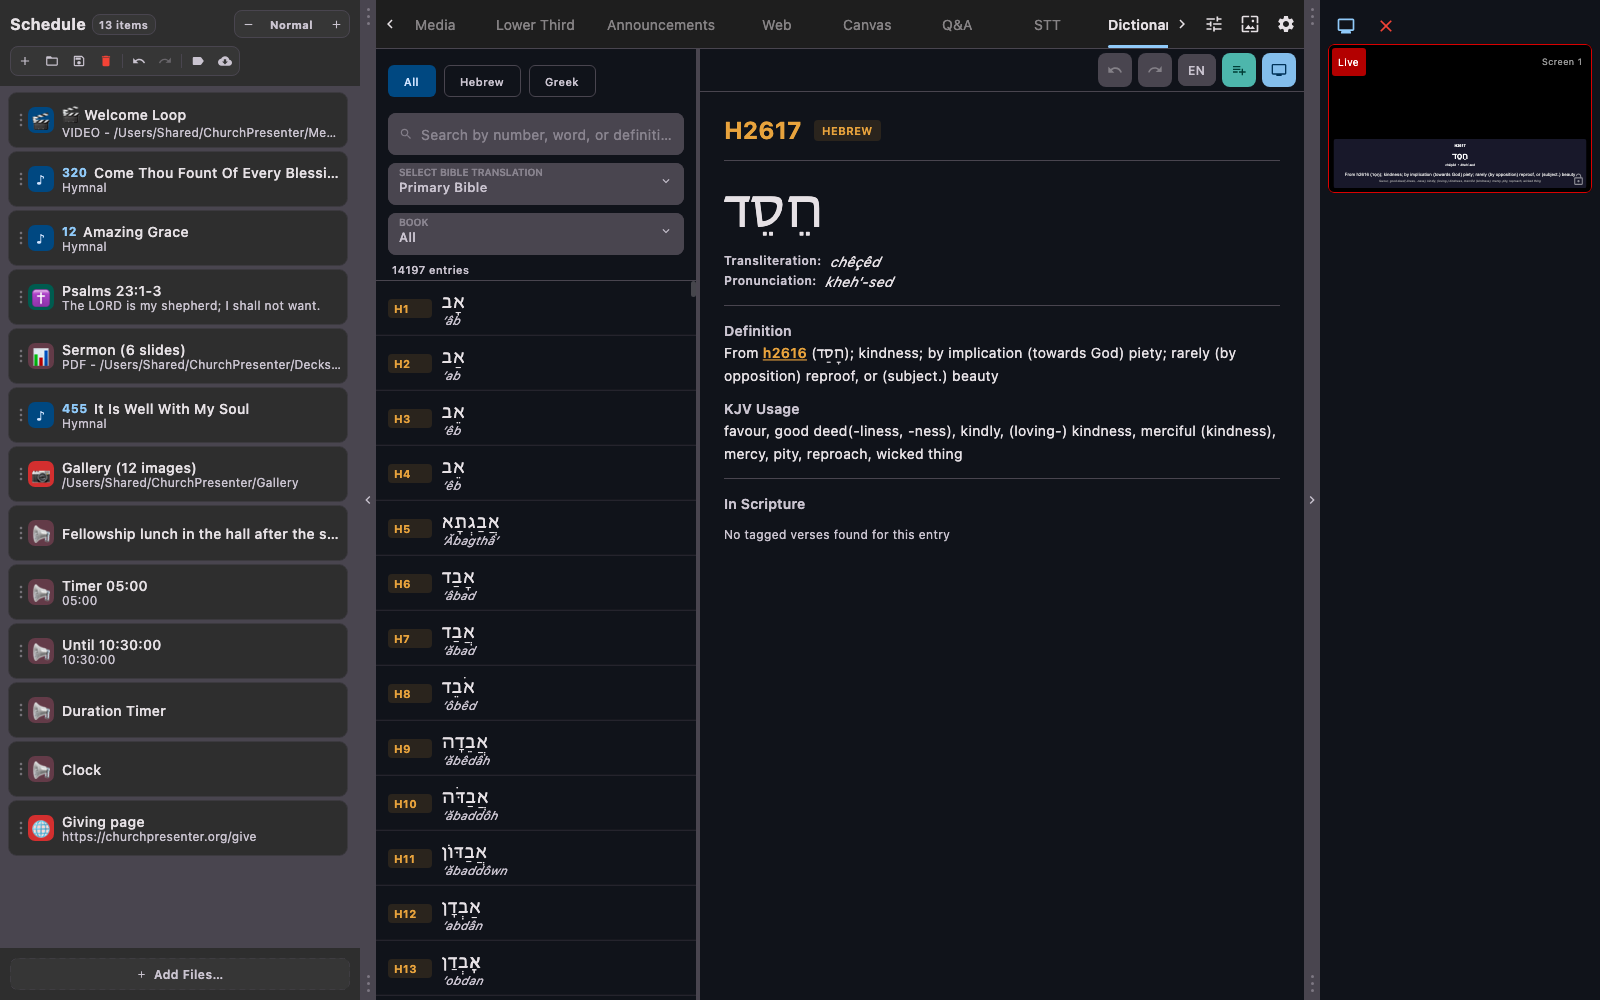
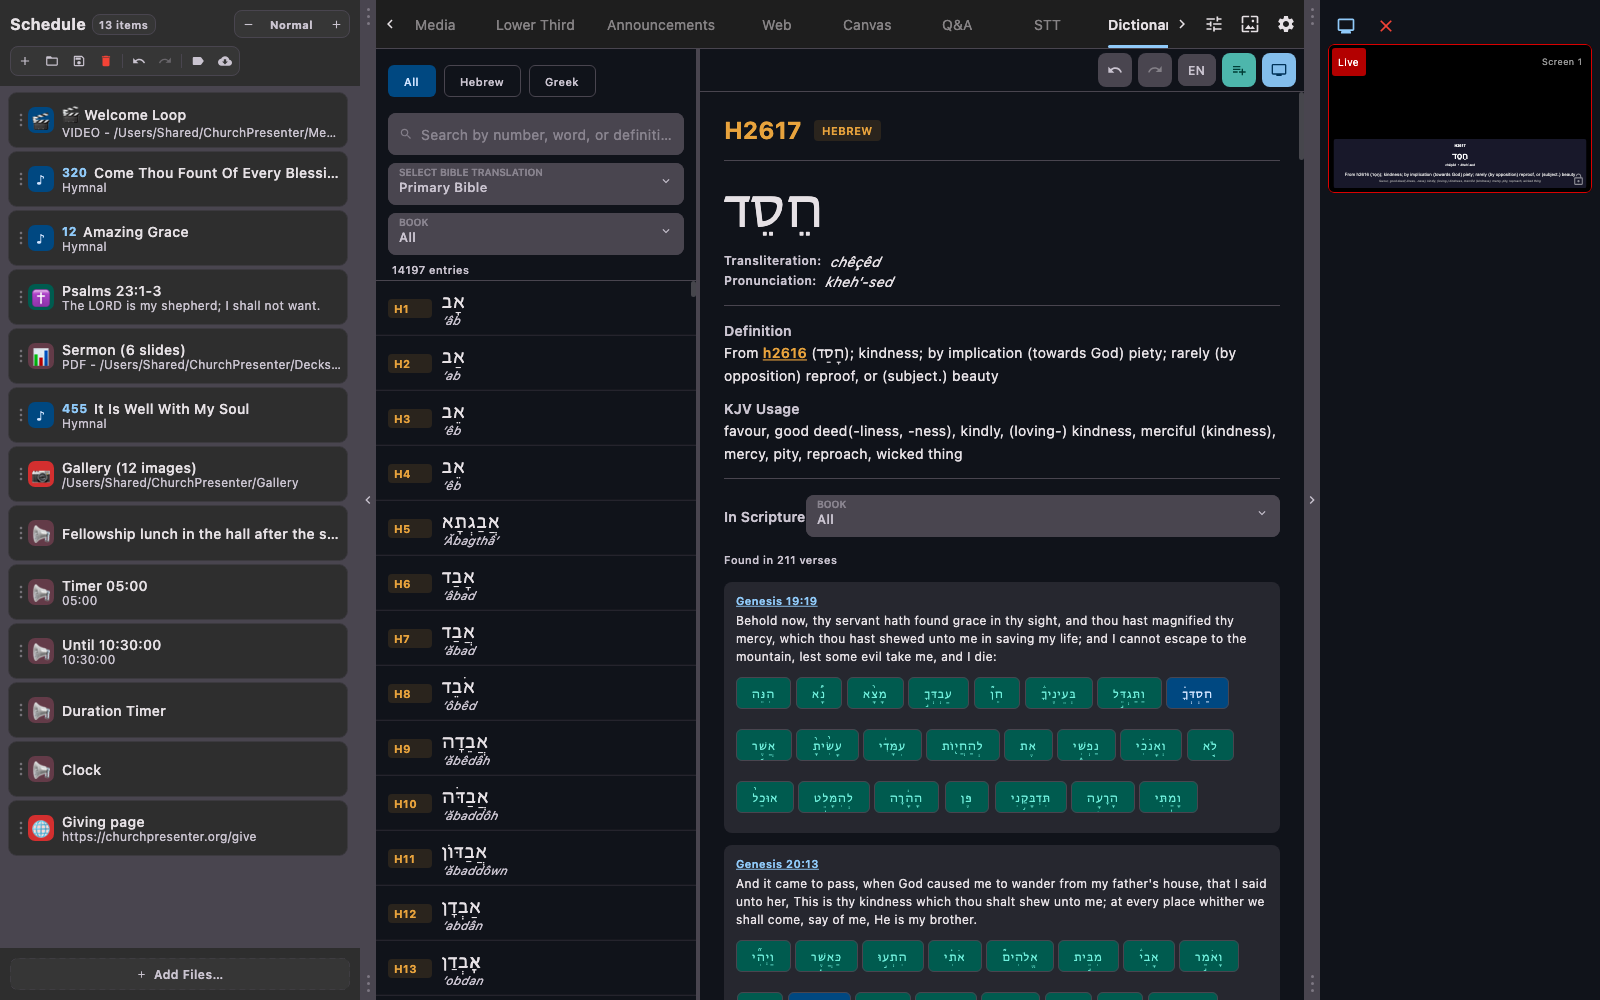
Stabilize preview screenshots and tighten threshold
Make preview screenshots deterministic for CI and tighten the image-change gate.

- Parameterize AboutDialogContent with a versionDisplay argument (defaults to BuildConfig.VERSION_DISPLAY) so tests can pin the version; AppPreviewAboutScreenshotTest now passes a fixed version.
- Pin CompanionSatelliteSettings deviceId in the preview AppSettings fixture to avoid UUID churn.
- Fix dictionary preview flakiness by adding selectUntilFullyScanned() to re-select the entry until the full interlinear count appears (imports for semantics/testing added).
- Reduce CHANGE_THRESHOLD from 0.5% to 0.1% (0.005f → 0.001f) and update commentary.
- Re-recorded affected preview screenshots.

Changed region(s): [[0.4375, 0.496, 0.8125, 1.0]]

diff --git a/composeApp/src/jvmTest/kotlin/org/churchpresenter/app/churchpresenter/screenshot/ScreenshotSupport.kt b/composeApp/src/jvmTest/kotlin/org/churchpresenter/app/churchpresenter/screenshot/ScreenshotSupport.kt
@@ -84,7 +84,7 @@ internal const val RENDER_TIMEOUT_MS = 30_000L
 private val PARTS = File("$SCREENSHOT_ROOT/.parts")
 
 /**
- * How much of an image may differ before `verifyRoborazziJvm` fails: **0.5%** of its pixels.
+ * How much of an image may differ before `verifyRoborazziJvm` fails: **0.1%** of its pixels.
  *
  * Roborazzi's own default is **0** — one differing pixel fails. That is the right target and not yet
  * reachable here (see below), so this is deliberately a little above it rather than the order of
@@ -105,17 +105,23 @@ private val PARTS = File("$SCREENSHOT_ROOT/.parts")
  * At 2.5% the first three of those merge cleanly — a switch could be inverted, a status could go the
  * wrong color, and the gate would stay green.
  *
- * **What sets the floor is churn, not the threshold.** Re-recording the *unchanged* set on the same
- * machine moves 9 of ~330 images, by 0.07% to 4.2% each. Those overlap the real changes above, so no
- * number separates signal from noise while they exist — the churn has to be fixed instead. Known:
- * `bibleSettingsTab`/`songSettingsTab` `colour_picker` (0.87% each) draw the picker's "Recent" row,
- * which is a JVM-wide singleton loaded from `~/.churchpresenter/recent_colors.json` — the suites that
- * pin and restore it (`stageMonitorSettingsTab`, `dictionarySettingsTab`) do not churn. Unexplained:
- * `previewApp` `about_*` (0.55%), `settings_companion_satellite_*` (0.16%), `canvas_*` (0.07%) and
- * `dictionary_light` (4.2%).
+ * **What sets the floor is churn, not the threshold**, so the churn was fixed rather than the number
+ * widened. Nine images used to move on every re-record; each had a cause, and none of them was Skia:
  *
- * So: **0.5% catches everything from a status line upwards and is 25× tighter than a "typical"
- * screenshot gate; drop it toward 0 as each churning image is fixed.**
+ * - `colour_picker` (0.87%) — the picker's "Recent" row, JVM-wide state; see [PinnedRecentColors].
+ * - `previewApp/about_*` (0.55%) — `BuildConfig.VERSION_DISPLAY` carries the git hash, so it changed
+ *   on every commit. The dialog now takes the version as a parameter and the test pins it.
+ * - `previewApp/settings_companion_satellite_*` (0.16%) — `CompanionSatelliteSettings` generates its
+ *   device id with `UUID.randomUUID()` and the tab draws it. Pinned in the preview fixture.
+ * - `previewApp/dictionary_light` (4.2%) — the interlinear index loads in the background and is
+ *   queried once, when an entry is selected, so a selection made mid-load kept a partial count. The
+ *   test now re-selects until the count is complete.
+ * - `previewApp/canvas_*` (0.07%) — not churn at all: a stale image, never re-recorded after the
+ *   canvas source list moved from emoji to real icons.
+ *
+ * With those gone the set is byte-stable across consecutive recordings, so **0.1% is slack for
+ * anti-aliasing and nothing else — it sits under every real change measured above.** 0 is the
+ * target; keep this only as long as something still jitters.
  *
  * The threshold is a *fraction of the whole image*, so it scales with the picture: on a stacked
  * 1024×1538 tab shot it is ~7,900 pixels, on a trimmed component shot a few hundred.
@@ -124,7 +130,7 @@ private val PARTS = File("$SCREENSHOT_ROOT/.parts")
  * `SimpleImageComparator` counts a pixel as differing only past a color distance of 0.007, which is
  * about four levels of one 8-bit channel.
  */
-internal const val CHANGE_THRESHOLD = 0.005f
+internal const val CHANGE_THRESHOLD = 0.001f
 
 /**
  * What the record/compare/verify tasks apply to a **golden** — the stacked image that is committed.

diff --git a/composeApp/src/jvmTest/kotlin/org/churchpresenter/app/churchpresenter/screenshot/AppPreviewDictionaryScreenshotTest.kt b/composeApp/src/jvmTest/kotlin/org/churchpresenter/app/churchpresenter/screenshot/AppPreviewDictionaryScreenshotTest.kt
@@ -2,8 +2,12 @@
 
 package org.churchpresenter.app.churchpresenter.screenshot
 
+import androidx.compose.ui.semantics.SemanticsProperties
+import androidx.compose.ui.semantics.getOrNull
+import androidx.compose.ui.test.ComposeUiTest
 import androidx.compose.ui.test.hasSetTextAction
 import androidx.compose.ui.test.hasText
+import androidx.compose.ui.test.onAllNodesWithText
 import androidx.compose.ui.test.performClick
 import androidx.compose.ui.test.performTextReplacement
 import org.churchpresenter.app.churchpresenter.tabs.Tabs
@@ -16,11 +20,44 @@ class AppPreviewDictionaryScreenshotTest {
         onAllNodes(hasSetTextAction())[0].performTextReplacement("H2617")
         waitForIdle()
         // the search field also reads "H2617", so the row is addressed by its transliteration
-        onAllNodes(hasText("chêçêd", substring = true))[0].performClick()
-        waitForIdle()
+        selectUntilFullyScanned()
         // Clearing the search puts all 14,197 entries back in the list; the selection survives it.
         onAllNodes(hasSetTextAction())[0].performTextReplacement("")
         waitForIdle()
         goLive()
+    }
+
+    /**
+     * Selects the entry, and keeps re-selecting it until In Scripture reports the whole of it.
+     *
+     * The interlinear index loads in the background, and `DictionaryViewModel` queries it once, at
+     * the moment an entry is selected — so a selection made while it is still loading gets whatever
+     * had been indexed by then and keeps it. Observed here across runs: 8, 18, 80, 181 and 211
+     * verses for the same entry, which is why this screenshot was a different picture on every
+     * recording, by 4.2% of the image.
+     *
+     * Re-selecting re-queries, so the complete count is the load's own positive signal. It is a
+     * fixed number because the data is fixed; the wait ends on it and the check below fails loudly
+     * if it never arrives rather than capturing something half-scanned.
+     */
+    private fun ComposeUiTest.selectUntilFullyScanned() {
+        val deadline = System.currentTimeMillis() + RENDER_TIMEOUT_MS
+        var seen: String? = null
+        while (System.currentTimeMillis() < deadline) {
+            onAllNodes(hasText("chêçêd", substring = true))[0].performClick()
+            waitForIdle()
+            seen = onAllNodesWithText(SCRIPTURE_COUNT_PREFIX, substring = true)
+                .fetchSemanticsNodes(atLeastOneRootRequired = false)
+                .firstNotNullOfOrNull { it.config.getOrNull(SemanticsProperties.Text)?.joinToString() }
+            if (seen == FULLY_SCANNED) return
+        }
+        error("In Scripture never reached \"$FULLY_SCANNED\" — it stopped at \"$seen\"")
+    }
+
+    private companion object {
+        const val SCRIPTURE_COUNT_PREFIX = "Found in"
+
+        /** What H2617 settles on once the whole interlinear index is loaded. */
+        const val FULLY_SCANNED = "Found in 211 verses"
     }
 }

diff --git a/composeApp/src/jvmTest/kotlin/org/churchpresenter/app/churchpresenter/screenshot/AppPreviewSettingsScreenshotTest.kt b/composeApp/src/jvmTest/kotlin/org/churchpresenter/app/churchpresenter/screenshot/AppPreviewSettingsScreenshotTest.kt
@@ -3,6 +3,7 @@
 package org.churchpresenter.app.churchpresenter.screenshot
 
 import androidx.compose.ui.geometry.Size
+import androidx.compose.ui.test.onAllNodesWithText
 import androidx.compose.ui.test.runSkikoComposeUiTest
 import androidx.compose.ui.unit.Density
 import org.churchpresenter.app.churchpresenter.TestSingletons
@@ -36,6 +37,17 @@ class AppPreviewSettingsScreenshotTest {
                     )
                 }
                 waitForIdle()
+                // The System tab scans the song folder in the background: until it finishes it shows
+                // "Scanning folder…", and then replaces it with the songbook tally — which is both
+                // different text and a taller block, so everything under it moves. A capture taken
+                // mid-scan is a different picture every run. The condition starts out true and flips
+                // when the scan ends, so this waits on the scan finishing, not on a clock; on the
+                // tabs that never scan there is nothing to wait for and it returns at once.
+                waitUntil(timeoutMillis = RENDER_TIMEOUT_MS) {
+                    onAllNodesWithText(SCANNING, substring = true)
+                        .fetchSemanticsNodes(atLeastOneRootRequired = false)
+                        .isEmpty()
+                }
                 captureTo(File("$SCREENSHOT_ROOT/previewApp/settings_${name}_$suffix.png"))
             }
         }
@@ -73,4 +85,9 @@ class AppPreviewSettingsScreenshotTest {
 
     @Test
     fun `companion satellite`() = settingsTab("companion_satellite", 10)
+
+    private companion object {
+        /** Shown while the song folder is being read; gone once the tally replaces it. */
+        const val SCANNING = "Scanning folder"
+    }
 }

diff --git a/composeApp/src/jvmMain/kotlin/org/churchpresenter/app/churchpresenter/dialogs/AboutDialog.kt b/composeApp/src/jvmMain/kotlin/org/churchpresenter/app/churchpresenter/dialogs/AboutDialog.kt
@@ -96,7 +96,19 @@ fun AboutDialog(
 }
 
 @Composable
-internal fun AboutDialogContent(onDismiss: () -> Unit, appSettings: AppSettings, theme: ThemeMode) {
+internal fun AboutDialogContent(
+    onDismiss: () -> Unit,
+    appSettings: AppSettings,
+    theme: ThemeMode,
+    /**
+     * The version line, as a parameter only so the screenshot of this dialog can pin it.
+     *
+     * [BuildConfig.VERSION_DISPLAY] carries the build's git hash, so it changes with every commit —
+     * and a committed image of this dialog would therefore be stale the moment it was recorded, and
+     * would fail `verifyRoborazziJvm` for ever after. Nothing but the test passes anything here.
+     */
+    versionDisplay: String = BuildConfig.VERSION_DISPLAY,
+) {
     AppThemeWrapper(theme = theme) {
         Surface(
             modifier = Modifier.fillMaxSize(),
@@ -136,7 +148,7 @@ internal fun AboutDialogContent(onDismiss: () -> Unit, appSettings: AppSettings,
                 )
                 Spacer(modifier = Modifier.height(8.dp))
                 Text(
-                    text = BuildConfig.VERSION_DISPLAY,
+                    text = versionDisplay,
                     style = MaterialTheme.typography.bodyMedium,
                     color = MaterialTheme.colorScheme.onSurfaceVariant
                 )

diff --git a/composeApp/src/jvmTest/kotlin/org/churchpresenter/app/churchpresenter/screenshot/AppPreviewSupport.kt b/composeApp/src/jvmTest/kotlin/org/churchpresenter/app/churchpresenter/screenshot/AppPreviewSupport.kt
@@ -20,6 +20,7 @@ import org.churchpresenter.app.churchpresenter.data.SongItem
 import org.churchpresenter.app.churchpresenter.data.settings.AnnouncementsSettings
 import org.churchpresenter.app.churchpresenter.data.settings.AppSettings
 import org.churchpresenter.app.churchpresenter.data.settings.BibleSettings
+import org.churchpresenter.app.churchpresenter.data.settings.CompanionSatelliteSettings
 import org.churchpresenter.app.churchpresenter.data.settings.PictureSettings
 import org.churchpresenter.app.churchpresenter.data.settings.SongSettings
 import org.churchpresenter.app.churchpresenter.data.settings.StreamingSettings
@@ -454,6 +455,11 @@ internal fun library(): AppSettings {
             WebBookmark(url = "https://www.biblegateway.com", title = "Bible Gateway"),
         ),
         hiddenTabs = emptySet(),
+        // Pinned: both default to `UUID.randomUUID()`, and the device id is drawn in a text field on
+        // the Companion Satellite settings tab — so its screenshot carried a fresh id every run.
+        companionSatelliteConnections = listOf(
+            CompanionSatelliteSettings(id = "preview-connection", deviceId = "churchpresenter-preview"),
+        ),
     )
 }
 

diff --git a/composeApp/src/jvmTest/kotlin/org/churchpresenter/app/churchpresenter/screenshot/AppPreviewAboutScreenshotTest.kt b/composeApp/src/jvmTest/kotlin/org/churchpresenter/app/churchpresenter/screenshot/AppPreviewAboutScreenshotTest.kt
@@ -29,6 +29,9 @@ class AppPreviewAboutScreenshotTest {
                             onDismiss = {},
                             appSettings = appSettings,
                             theme = mode,
+                            // Pinned: the real one carries the build's git hash, so this image
+                            // would differ from the committed one after every single commit.
+                            versionDisplay = "26.8.0 (0000000)",
                         )
                     }
                 }
